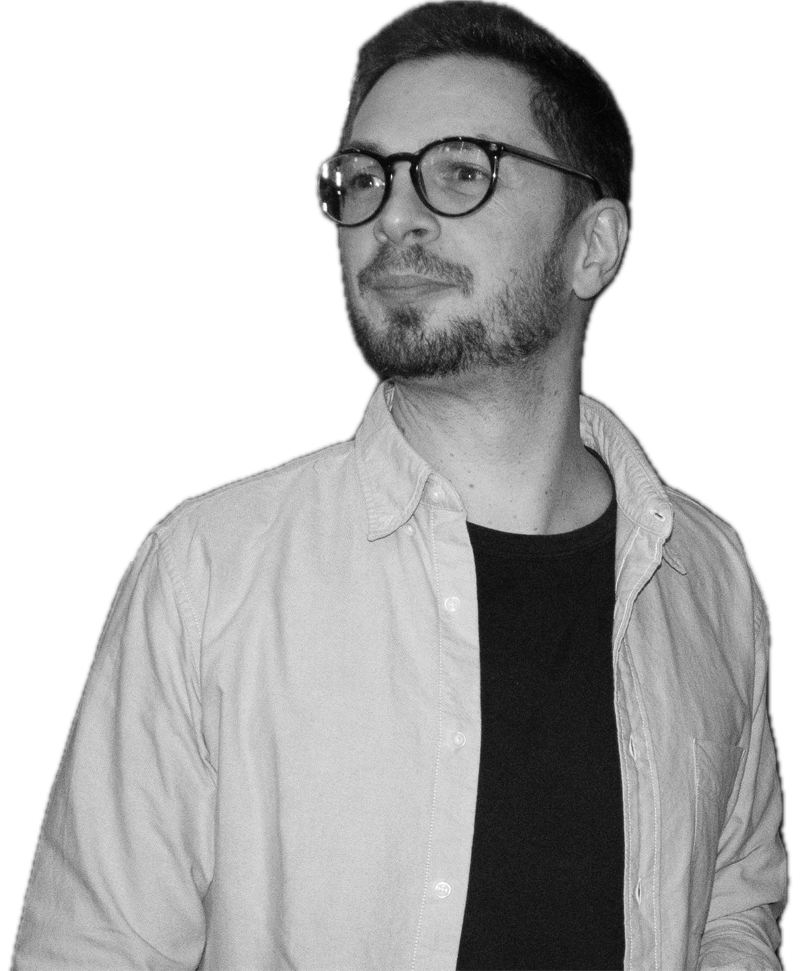
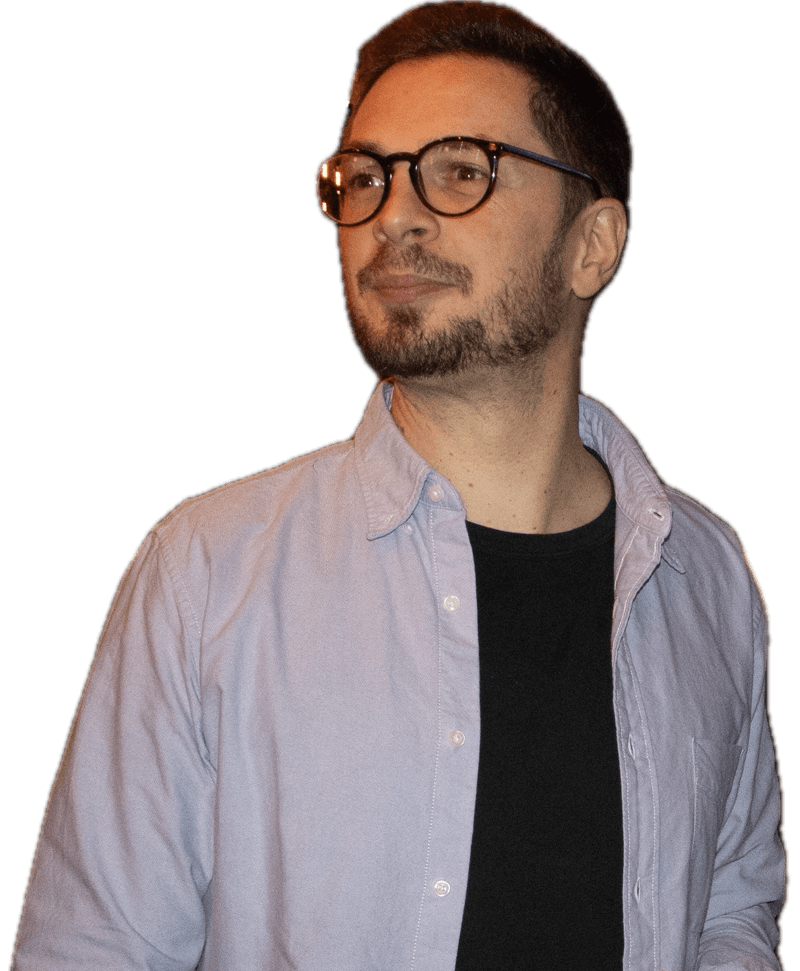
feat: move pic to colored

diff --git a/src/components/intro.tsx b/src/components/intro.tsx
@@ -55,7 +55,7 @@ const Intro = () => (
       <Image
         src="/images/ronan-levesque.png"
         alt="A picture of me, being casual"
-        className="md:m-auto md:h-100p md:w-auto md:opacity-50"
+        className="md:m-auto md:h-100p md:w-auto md:opacity-45"
         blurDataURL="/images/ronan-levesque.png"
         placeholder="blur"
         width={1567}
